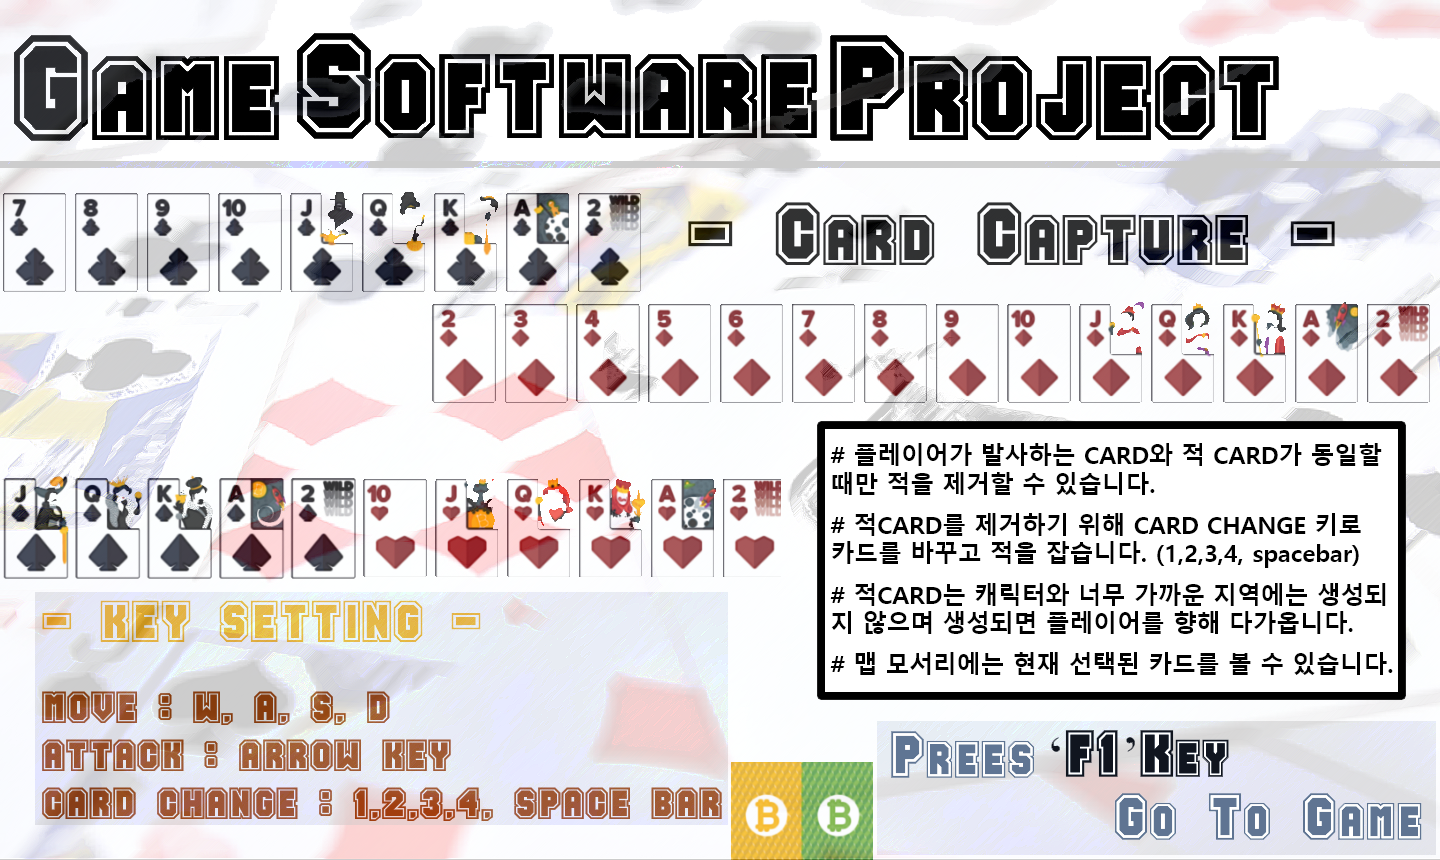
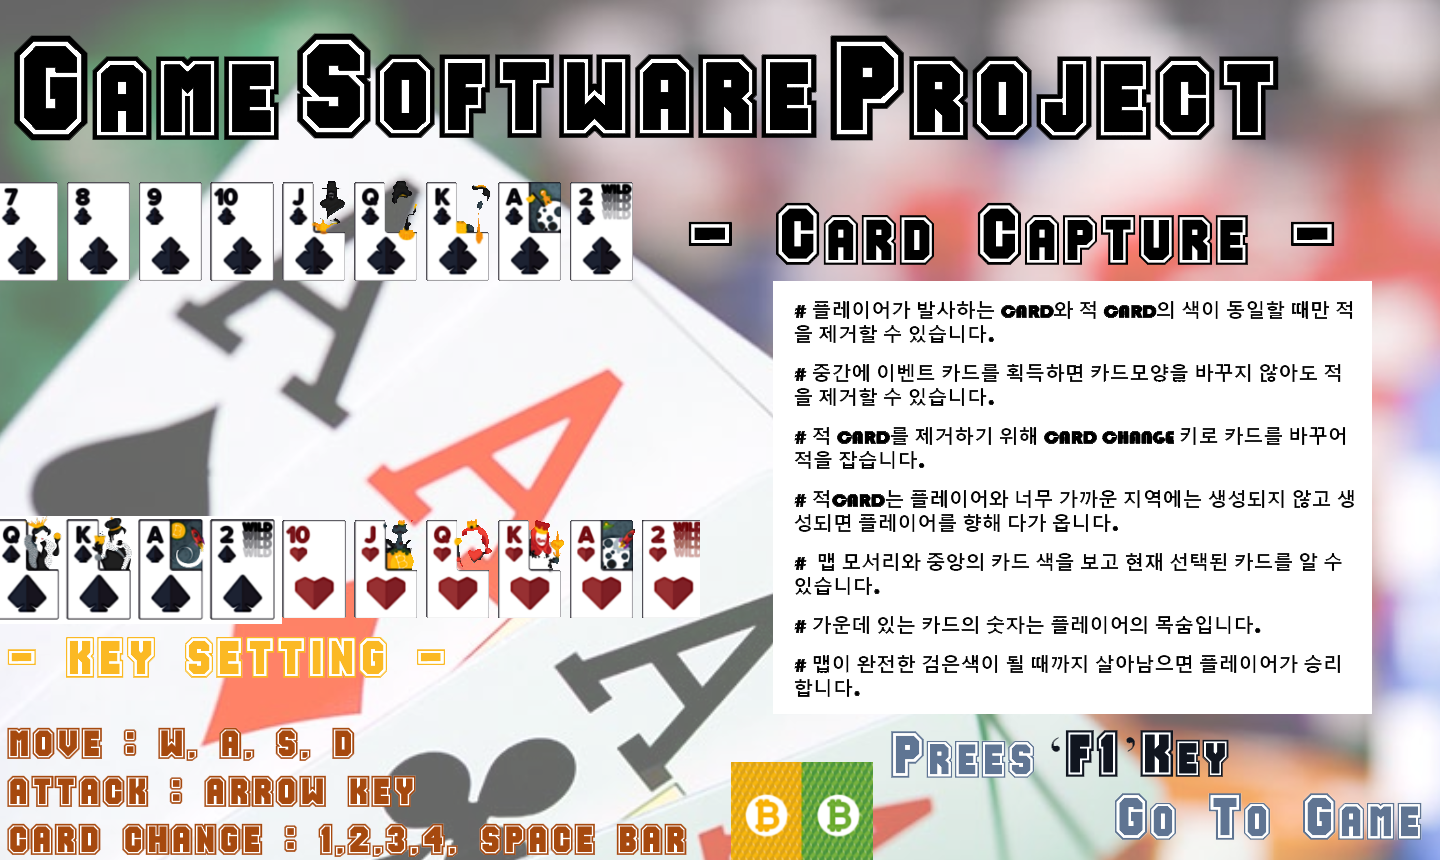
[DEV] LevelDesign, EndingScene
- 레벨 디자인
- 엔딩 씬

diff --git a/SimpleGame/ScnMgr.h b/SimpleGame/ScnMgr.h
@@ -14,6 +14,7 @@ class ScnMgr
 	GLuint m_texExplosion;
 	GLuint m_texMonster;
 	GLuint m_texCard;
+	GLuint m_clearUI;
 
 	Sound *m_Sound = NULL;
 	int m_SoundBG = 0;
@@ -41,6 +42,7 @@ class ScnMgr
 	float event_time = 0.f;
 
 	bool isUIScene = true;
+	bool isClearScene = false;
 	bool isHit = false;
 	bool isEvent = false;
 	
